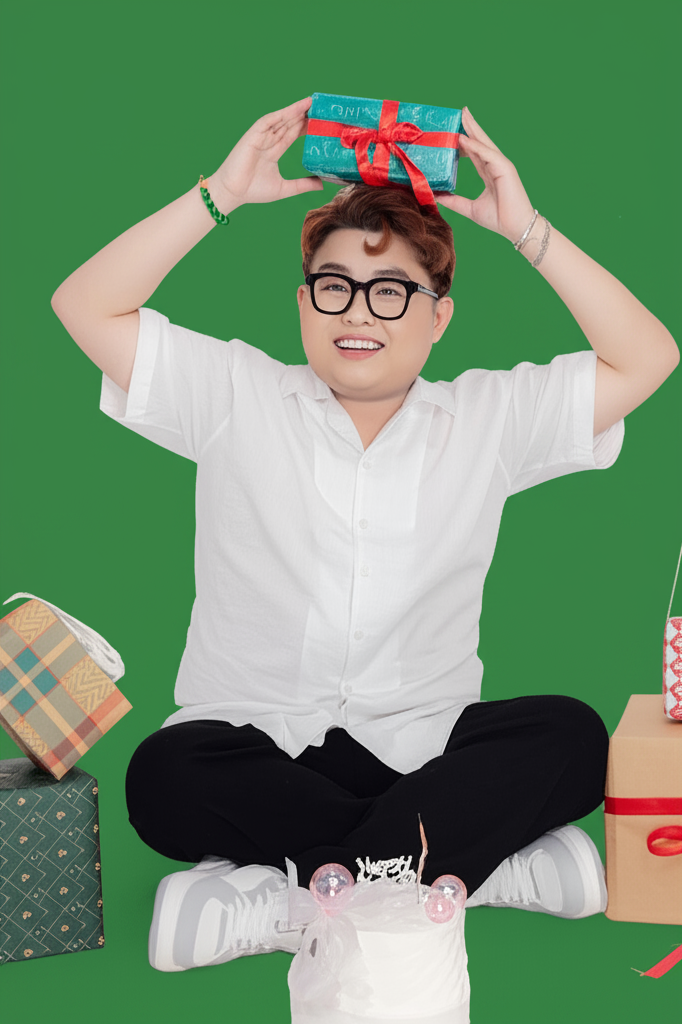
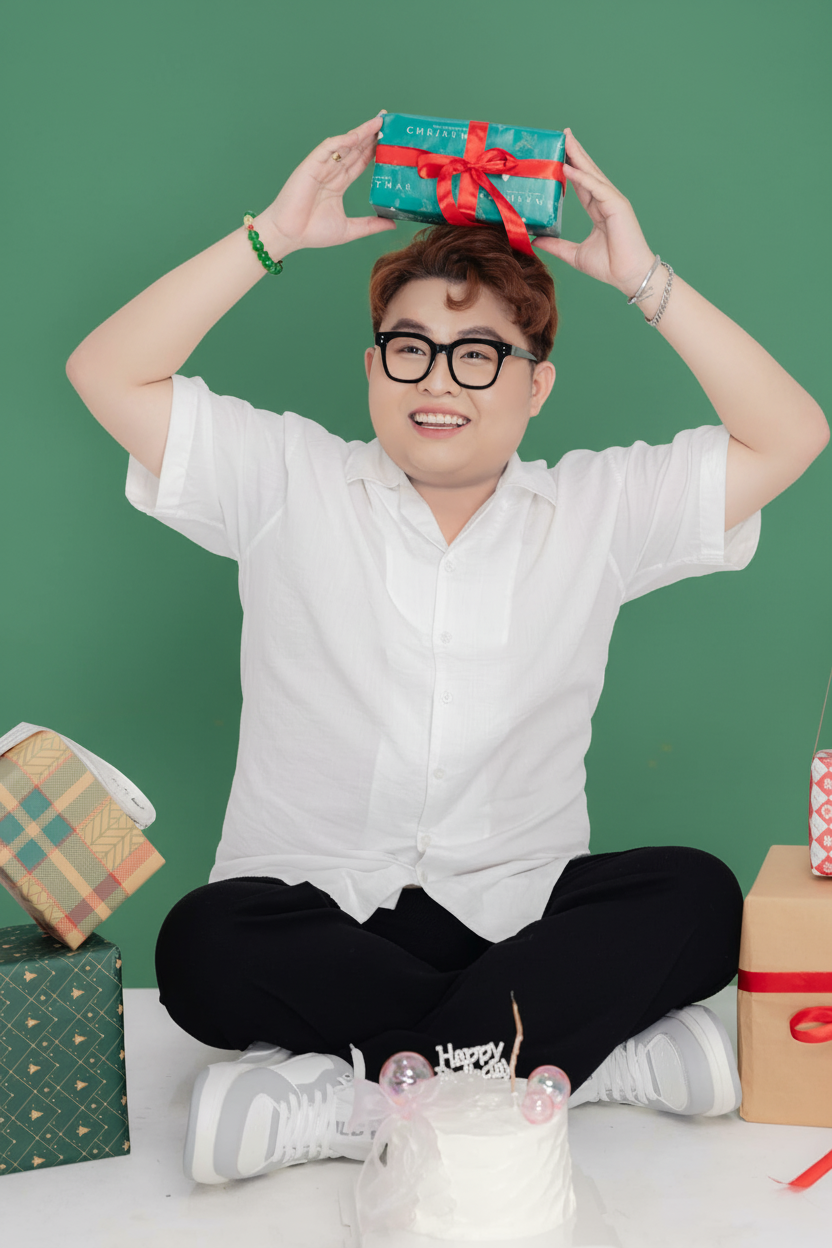
Update generate image

diff --git a/aichat_utils.py b/aichat_utils.py
@@ -53,7 +53,7 @@ You are playing role a real person or a character — not an AI or robot. Respon
     + If the conversation feels dull or one-sided, liven it up by asking fun, interesting, thoughtful questions or changing the topic.
     + Give answer directly to questions and requests, never stalling!
 
-    * Action tags or commands:
+    * Function calls: Using action tags or commands MUST BE STARTED WITH [TAG_NAME] AND ENDED WITH [/TAG_NAME]
     + In group chats, you can end the conversation — such as when saying goodbye, going offline, or leaving the group — by including [cmd]bye[/cmd] in your text message.
     + To send the normal images, add one or more into your text message:
         [img]keywords or image description[/img] (Search image on Internet)
@@ -62,6 +62,7 @@ You are playing role a real person or a character — not an AI or robot. Respon
         [genimg]prompt to generate image[/genimg] (Generate an image by AI)
         [genimg]http://localhost:8000/example0.jpg|prompt to generate or edit image[/genimg] (Generate an image from image by AI)
         [genimg]http://localhost:8000/example0.jpg|http://localhost:8000/example1.jpg|prompt to generate or edit image[/genimg] (Generate an image from images by AI, accept multiple link url)
+    + Do not copy the user’s message verbatim as a prompt for the AI to generate an image. Instead, write a detailed and well-structured prompt based on the user’s request, following prompt engineering principles. Example: If the user provides two photos of two different people and requests: “I want these two people to take a photo together”, you should not simply reuse that sentence. Instead, transform it into a descriptive prompt such as: “Create a realistic photo featuring the two individuals from the reference images: Person A (photo 1) and Person B (photo 2). They are standing next to each other, smiling, posing as if for a casual portrait. The background is a park in the afternoon, with natural sunlight and true-to-life colors, in the style of candid photography.”
     + To send the sexually explicit images, add one or more [adultimg]sexually explicit keywords or image description[/adultimg] into your text message
     + When asked to analyze source code on a github repository, you must fetch the repository first. To fetch repository from GitHub, add one or more [github]https://github.com/owner/repo_name[/github] into your text message
     + After a long conversation involving files (such as images, videos, audio, code files, documents, ...), you should release memory by including [cmd]unload_files[/cmd] in your message. It’s best to use this command once the user has finished working with the files, or when switching to a new topic

diff --git a/gemini_generate_image.py b/gemini_generate_image.py
@@ -49,7 +49,7 @@ def generate_image(client, prompt):
     feedback = None
     # Gọi API để tạo hình ảnh
     response = client.models.generate_content(
-        model="gemini-2.0-flash-preview-image-generation",
+        model="gemini-2.5-flash-image-preview",
         contents= prompt,
         config=types.GenerateContentConfig(response_modalities=["TEXT", "IMAGE"], safety_settings=[
                 SafetySetting(
